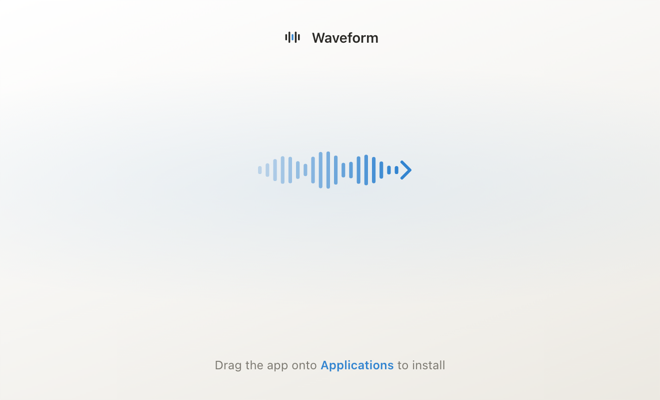
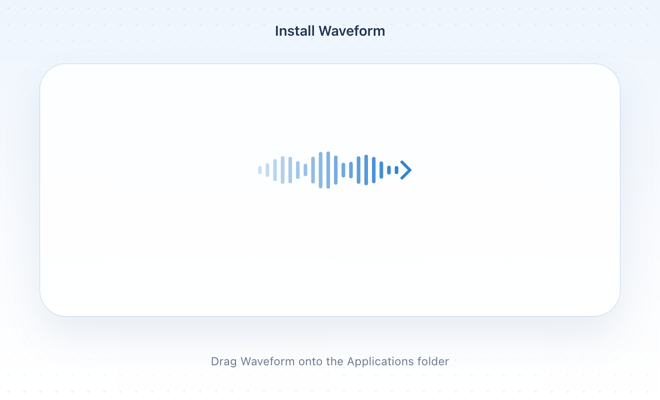
Use the install card layout with the wave arrow
A soft blue page with one white card behind both icons, an Install Waveform
heading, and the sound-wave arrow leading into Applications.

diff --git a/scripts/dmg-background.html b/scripts/dmg-background.html
@@ -19,40 +19,36 @@
     position: relative;
     font-family: -apple-system, "SF Pro Text", system-ui, sans-serif;
     -webkit-font-smoothing: antialiased;
-    background: linear-gradient(160deg, #ffffff 0%, #f5f4f1 55%, #ece9e2 100%);
+    background: linear-gradient(180deg, #eef5fd 0%, #f9fbfe 60%, #ffffff 100%);
   }
-  /* A soft blue band behind both icons, fading out at every edge. */
-  .band {
-    position: absolute; left: 0; right: 0; top: 64px; height: 244px;
-    background: radial-gradient(closest-side, rgba(50, 132, 208, 0.09), rgba(50, 132, 208, 0) 100%);
-    transform: scaleX(1.6);
+  /* A faint dot grid that shows only above and below the card. */
+  .dots {
+    position: absolute; inset: 0;
+    background-image: radial-gradient(rgba(50, 132, 208, 0.13) 1px, transparent 1.2px);
+    background-size: 16px 16px;
+    -webkit-mask: linear-gradient(180deg, #000 0, transparent 30%, transparent 80%, #000 100%);
   }
-  .brand {
-    position: absolute; top: 26px; width: 100%;
-    display: flex; justify-content: center; align-items: center; gap: 8px;
-    font-size: 14px; font-weight: 600; color: #2b2a27; letter-spacing: -0.01em;
+  /* One white card holding both icons and their names. */
+  .card {
+    position: absolute; left: 40px; right: 40px; top: 64px; height: 252px;
+    border-radius: 26px; background: rgba(255, 255, 255, 0.8);
+    box-shadow: 0 0 0 1px rgba(50, 132, 208, 0.10), 0 18px 40px rgba(50, 90, 140, 0.10);
   }
-  .brand svg { width: 22px; height: 22px; }
   .wave { position: absolute; left: 0; top: 0; fill: #3284d0; }
-  p {
-    position: absolute; bottom: 28px; width: 100%; text-align: center;
-    font-size: 12px; color: #7d7a72;
+  h1 {
+    position: absolute; top: 22px; width: 100%; text-align: center;
+    font-size: 14px; font-weight: 600; color: #1f3550; letter-spacing: -0.01em;
   }
-  p b { color: #3284d0; font-weight: 600; }
+  p {
+    position: absolute; bottom: 32px; width: 100%; text-align: center;
+    font-size: 11.5px; color: #6b7c90;
+  }
 </style>
 </head>
 <body>
-  <div class="band"></div>
-  <div class="brand">
-    <svg viewBox="0 0 100 100" fill="#2b2a27">
-      <rect x="17.20" y="35.55" width="7.81" height="28.90" rx="3.91"/>
-      <rect x="31.64" y="24.20" width="7.81" height="51.60" rx="3.91"/>
-      <rect x="46.09" y="35.55" width="7.81" height="28.90" rx="3.91" fill="#3284d0"/>
-      <rect x="60.55" y="24.20" width="7.81" height="51.60" rx="3.91"/>
-      <rect x="75.00" y="35.55" width="7.81" height="28.90" rx="3.91"/>
-    </svg>
-    Waveform
-  </div>
+  <div class="dots"></div>
+  <div class="card"></div>
+  <h1>Install Waveform</h1>
   <!-- The arrow: a sound wave that grows and brightens towards Applications. -->
   <svg class="wave" width="660" height="400">
     <rect x="258.0" y="166.0" width="3.6" height="8.0" rx="1.8" fill-opacity="0.25"/>
@@ -77,6 +73,6 @@
     <path d="M402 162 L410 170 L402 178" fill="none" stroke="#3284d0" stroke-width="3"
           stroke-linecap="round" stroke-linejoin="round"/>
   </svg>
-  <p>Drag the app onto <b>Applications</b> to install</p>
+  <p>Drag Waveform onto the Applications folder</p>
 </body>
 </html>
